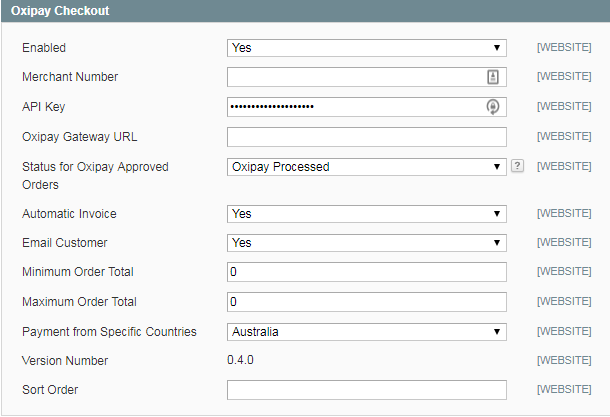
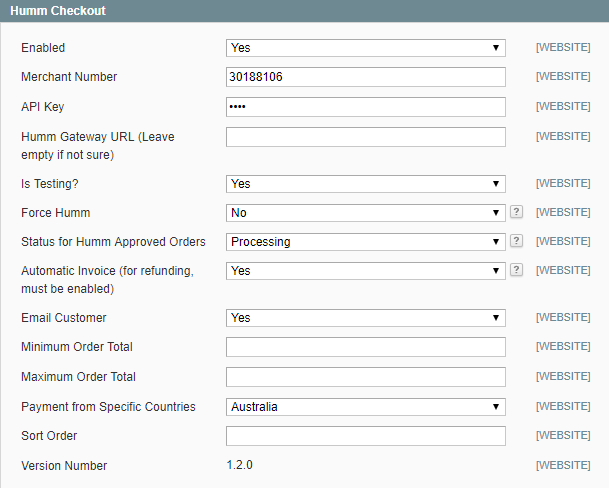
for magento1.x

diff --git a/docs/platforms/magento_1.md b/docs/platforms/magento_1.md
@@ -11,17 +11,17 @@ Use the same instructions to upgrade your existing plugin to a newer release.
 
 1 - You can create a backup of your store by navigating to **System** -> **Tools** -> **Backup**.
 
-2 - Download the Humm plugin from [github.com/oxipay/oxipay-magento-1.x/releases](https://github.com/oxipay/oxipay-magento-1.x/releases).
+2 - Download the Humm plugin from [github.com/humm-devadmin/humm-magento1.x/releases](https://github.com/humm-devadmin/humm-magento1.x/releases).
 
 3 - Unzip it, then copy the following plugin files and folders into the corresponding folders under the Magento root directory.
 
-- /app/code/community/Oxipay
-- /app/design/frontend/base/default/template/oxipayments
-- /app/design/adminhtml/base/default/template/oxipayments
-- /app/etc/modules/Oxipay_Oxipayments.xml
+    /app/code/community/Humm
+    /app/design/frontend/base/default/template/HummPayments
+    /app/design/adminhtml/base/default/template/HummPayments
+    /app/etc/modules/Humm_HummPayments.xml
 
-- /skin/frontend/base/default/images/Oxipay/
-- /skin/adminhtml/base/default/images/Oxipay/
+    /skin/frontend/base/default/images/Humm/
+    /skin/adminhtml/base/default/images/Humm/
 
 4 - Login into Magento's **Admin Panel**, click on **System** then select **Cache Management**.
 
@@ -41,3 +41,36 @@ Use the same instructions to upgrade your existing plugin to a newer release.
 
 ![6.png](/img/platforms/magento_1/6.png)
 
+4 - Force Humm provides a way to preview and test Humm before Humm is officially launched. Please do not enabled it in the live environment before
+
+## Humm official launch
+
+Before the Humm official launch, the plugin will behave like an Oxipay payment plugin. It will show Oxipay, and checkout with the Oxipay gateway.
+
+The plugin will automatically switch itself to Humm when the Humm is officially launched. It will then show Humm, and checkout with the Humm gateway.
+
+The switch-over should be automatic and you as the merchant should not need to do anything on the launch date to make the switch.
+
+## Updating from the old Oxipay plugin
+
+1 - Install the Humm payment plugin as described earlier in this page.
+
+2 - Go to the Payment Methods page as described earlier.
+
+3 - If you already have the Oxipay plugin installed and configured, you will see certain Oxipay configurations (Merchant Number, API Key, etc.) has been copyed to the Humm plugin configurations.
+
+4 - Set "Enabled" to "Yes" for Humm plugin, **and set "Enabled" to "No" for the Oxipay plugin**.
+
+5 - Adjust other Humm plugin settings if necessary. "Is Testing" is preset to "No" by default in this case. Save the config.
+
+6 - Now you can safely remove the Oxipay plugin by removing the following folders and files:
+
+    /app/code/community/Oxipay
+    /app/design/frontend/base/default/template/oxipayments
+    /app/design/adminhtml/base/default/template/oxipayments
+    /app/etc/modules/Oxipay_Oxipayments.xml
+
+    /skin/frontend/base/default/images/Oxipay/
+    /skin/adminhtml/base/default/images/Oxipay/
+
+7 - Before the Humm launch date, the plugin will still shou Oxipay and checkout with Oxipay, and your customers should feel no changes. After the official Humm launch, the plugin will automatically switch to Humm, providing a smooth and fully automatic transition.
